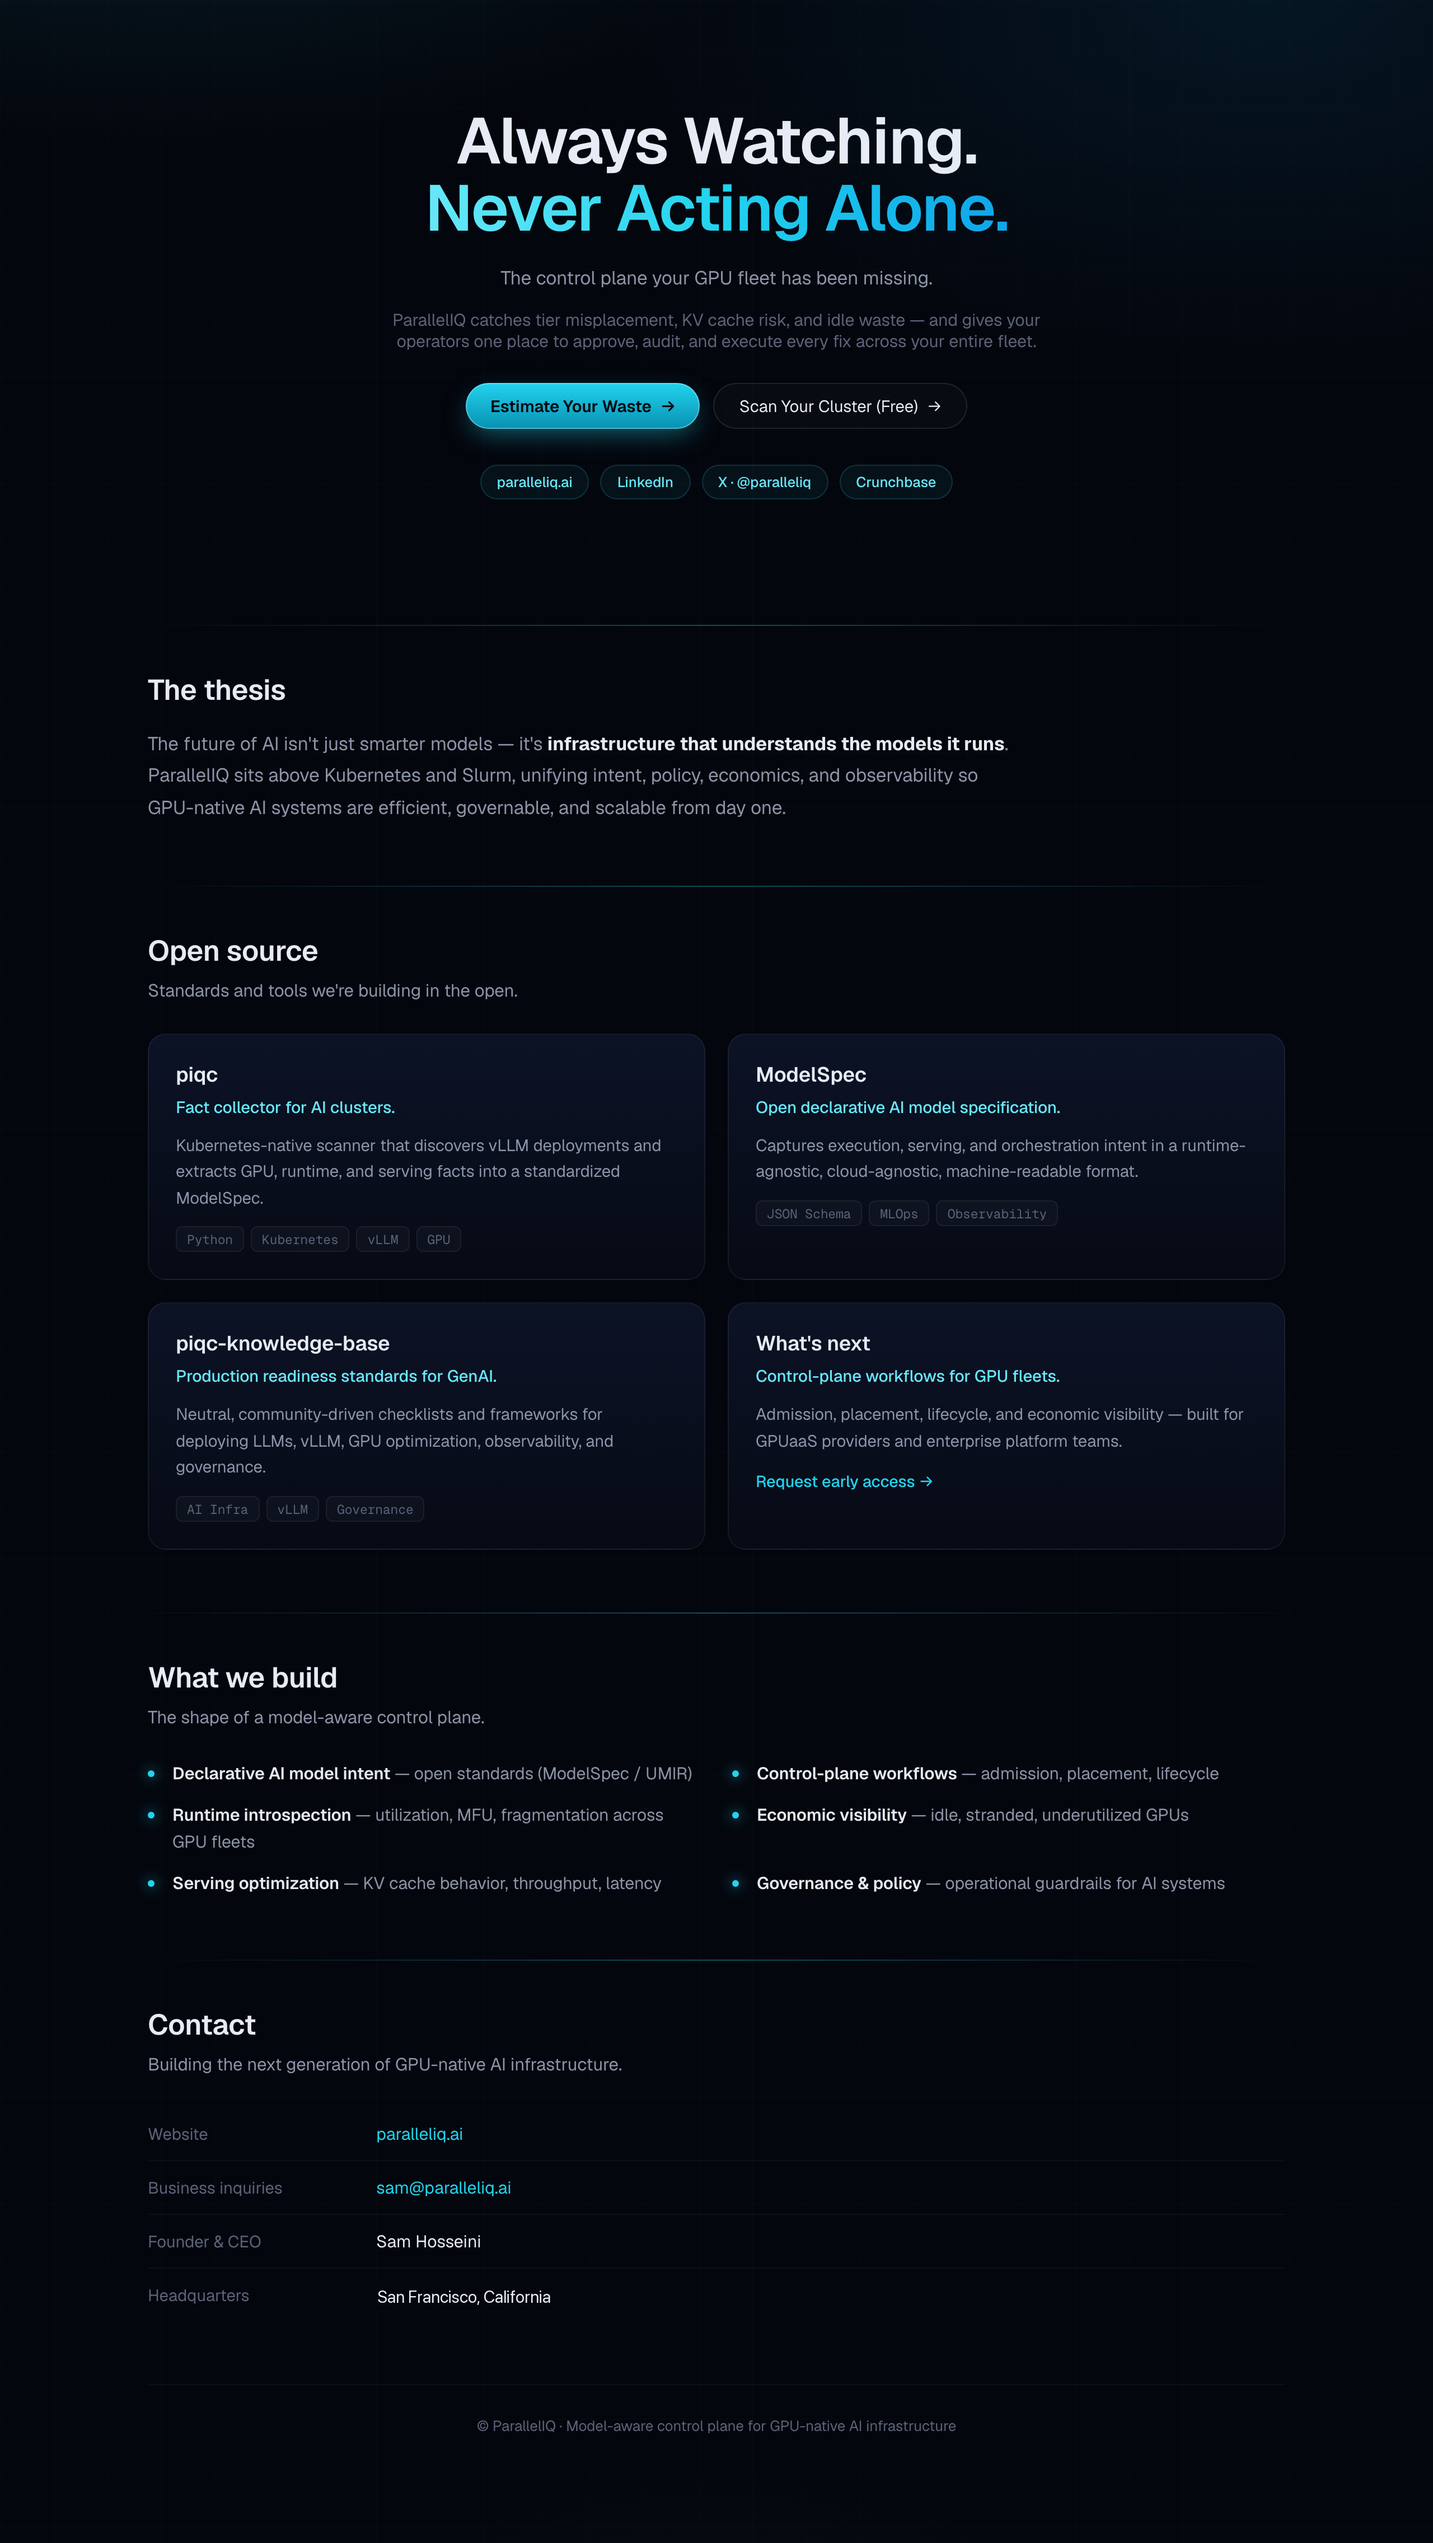
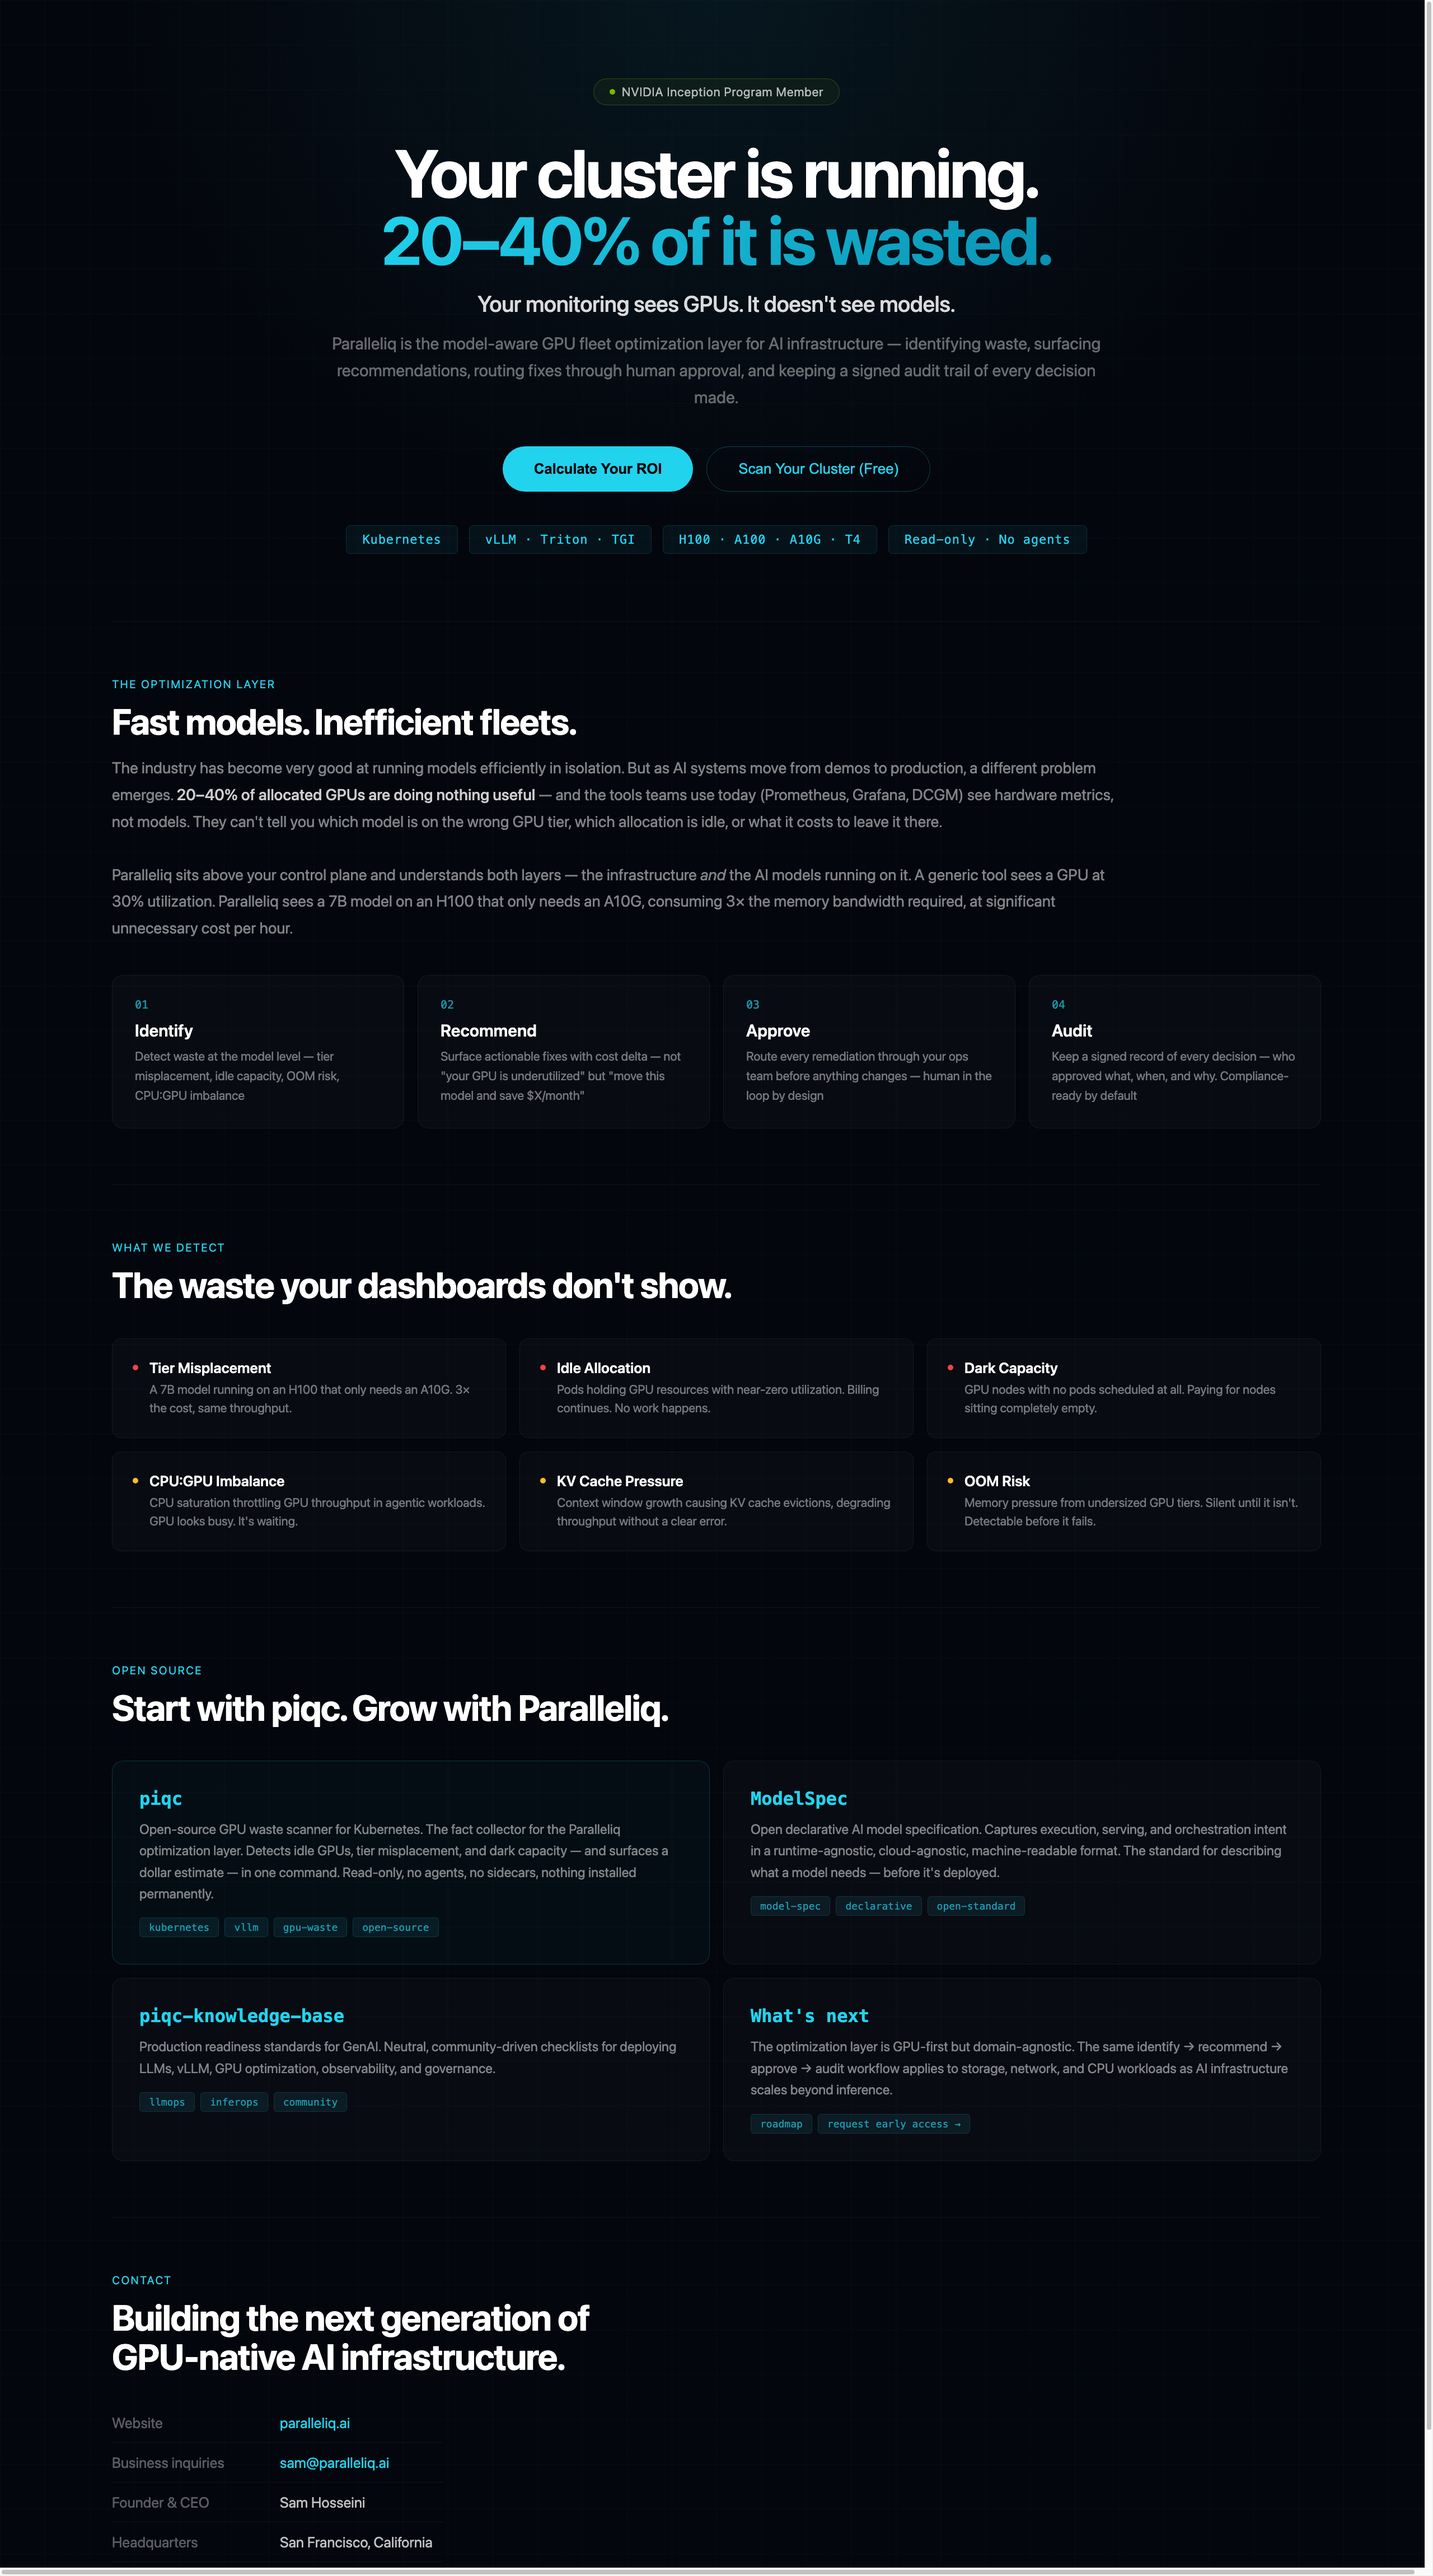
Update readme preview image and alt text to optimization layer positioning

diff --git a/README.md b/README.md
@@ -1,6 +1,6 @@
 <p align="center">
   <a href="https://paralleliq.ai">
-    <img src="./branding/readme-preview.png" alt="ParallelIQ — Always Watching. Never Acting Alone. The control plane your GPU fleet has been missing." width="100%" />
+    <img src="./branding/readme-preview.png" alt="ParallelIQ — Your cluster is running. 20–40% of it is wasted. Your monitoring sees GPUs. It doesn't see models. The model-aware GPU fleet optimization layer for AI infrastructure." width="100%" />
   </a>
 </p>
 
